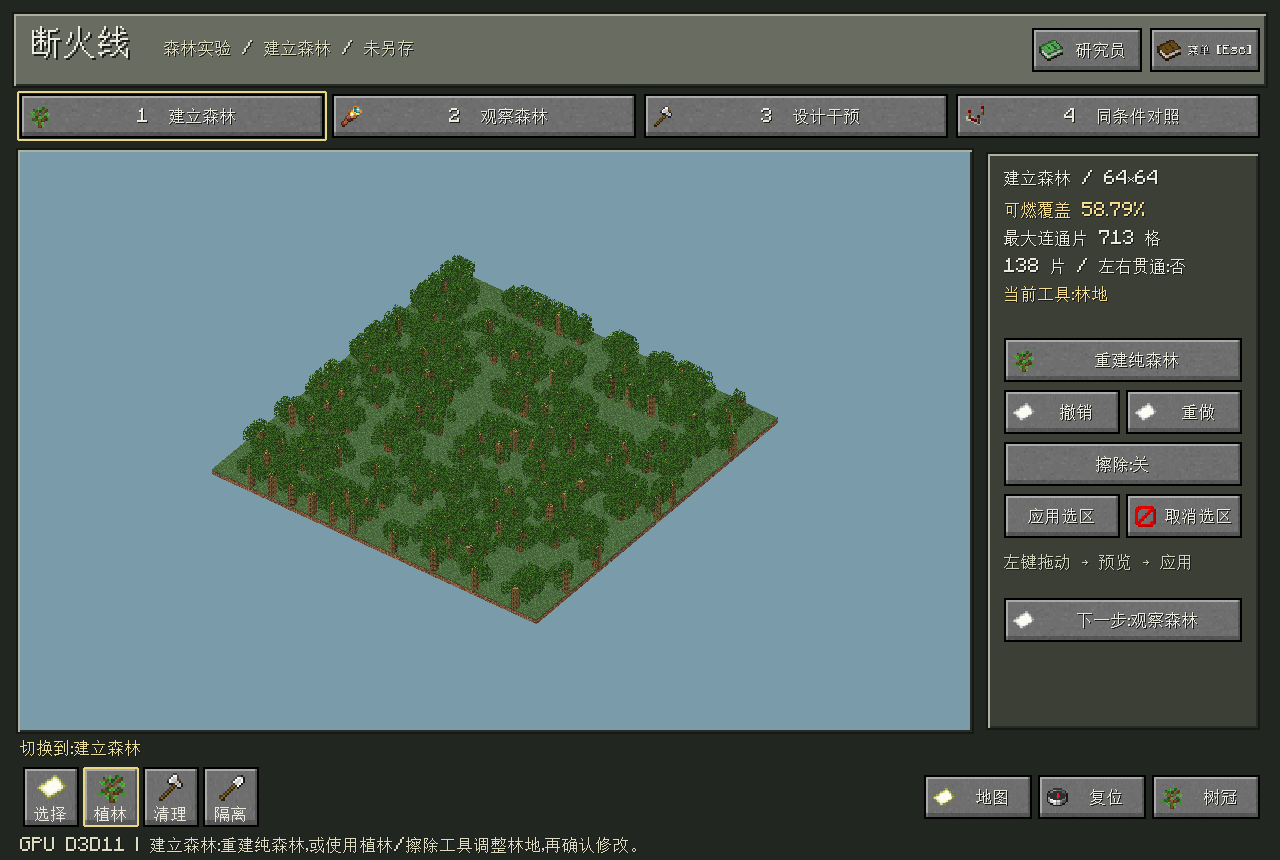
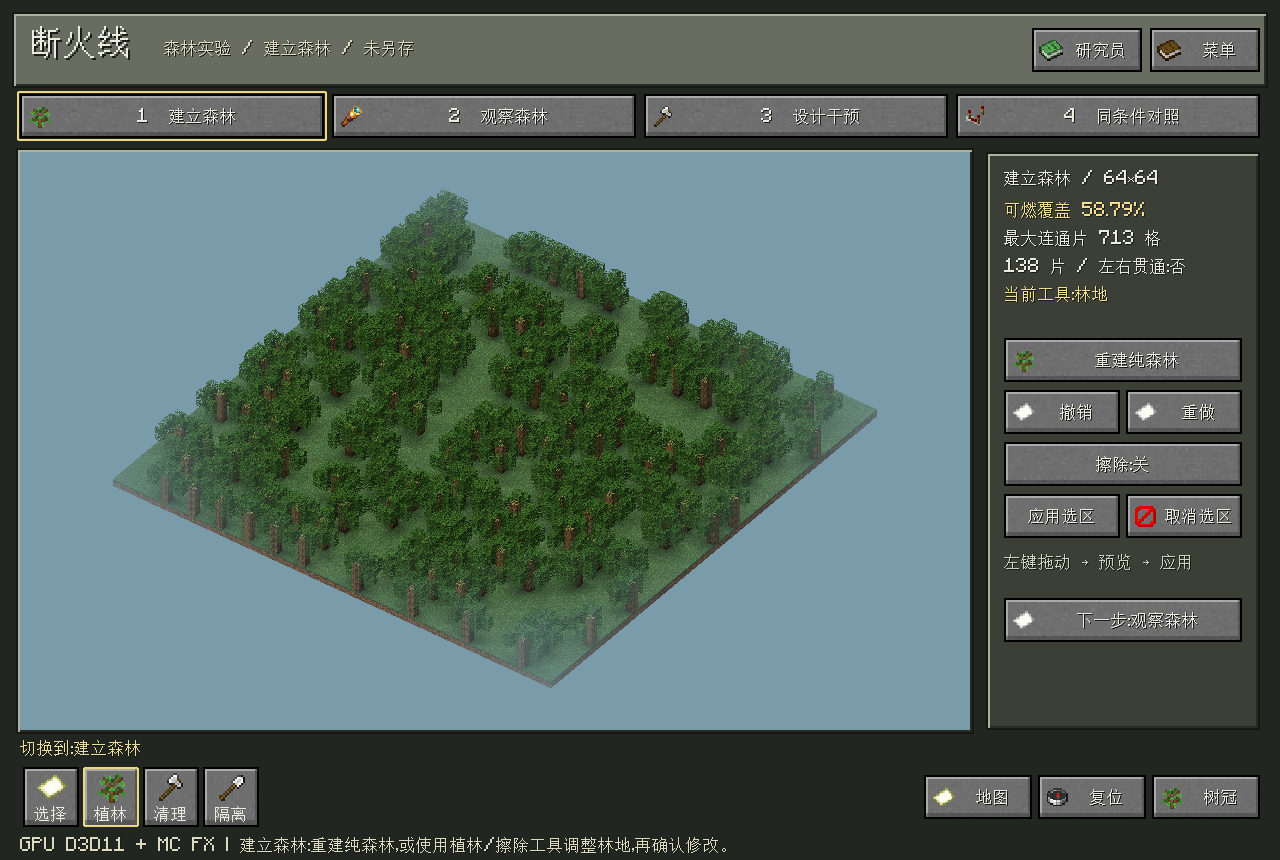
ui: simplify menu label and refresh README screenshots

Changed region(s): [[0.0938, 0.2116, 0.6875, 0.8163], [0.0938, 0.9674, 0.5625, 0.9977], [0.9375, 0.0302, 0.9688, 0.0907]]

diff --git a/README.md b/README.md
@@ -47,12 +47,9 @@
 | ② 等量干预 | 在选定密度下，比较未处理、随机清理、连接优先和中线条带 | 相同清理量下的烧损、剩余林地与结构变化 |
 | ③ 长期对照 | 从选定密度的未处理样本开始，比较自然燃烧和理想小火抑制 | 覆盖率轨迹、火灾规模、抑制次数与代价 |
 
-下图及展开后的三张截图来自同一次真实DeepSeek工具调用；示例参数仅用于快速体验。
+以下四张截图来自同一次真实DeepSeek工具调用；示例参数仅用于快速体验。
 
 ![真实DeepSeek调用：一句话指令、工具回执与实际结果图卡](assets/readme/experiment-terminal.png)
-
-<details>
-<summary>查看三个阶段的实际结果截图</summary>
 
 **① 密度扫描：观察有限网格中的贯通过渡区。**
 
@@ -65,8 +62,6 @@
 **③ 长期对照：自然燃烧与理想小火抑制的轨迹、统计和回放。**
 
 ![长期实验结果：同一初始样本上的两种规则及真实回放](assets/readme/experiment-long.png)
-
-</details>
 
 图卡可点击放大，滚轮翻阅对话，`/stop`取消任务，`/preview`查看样本。实验使用副本，**不会自动修改工作台**；需在预览后手动应用。长期阶段独立比较两种燃烧规则，不是自动对“最佳清理方案”做长期验证。
 
